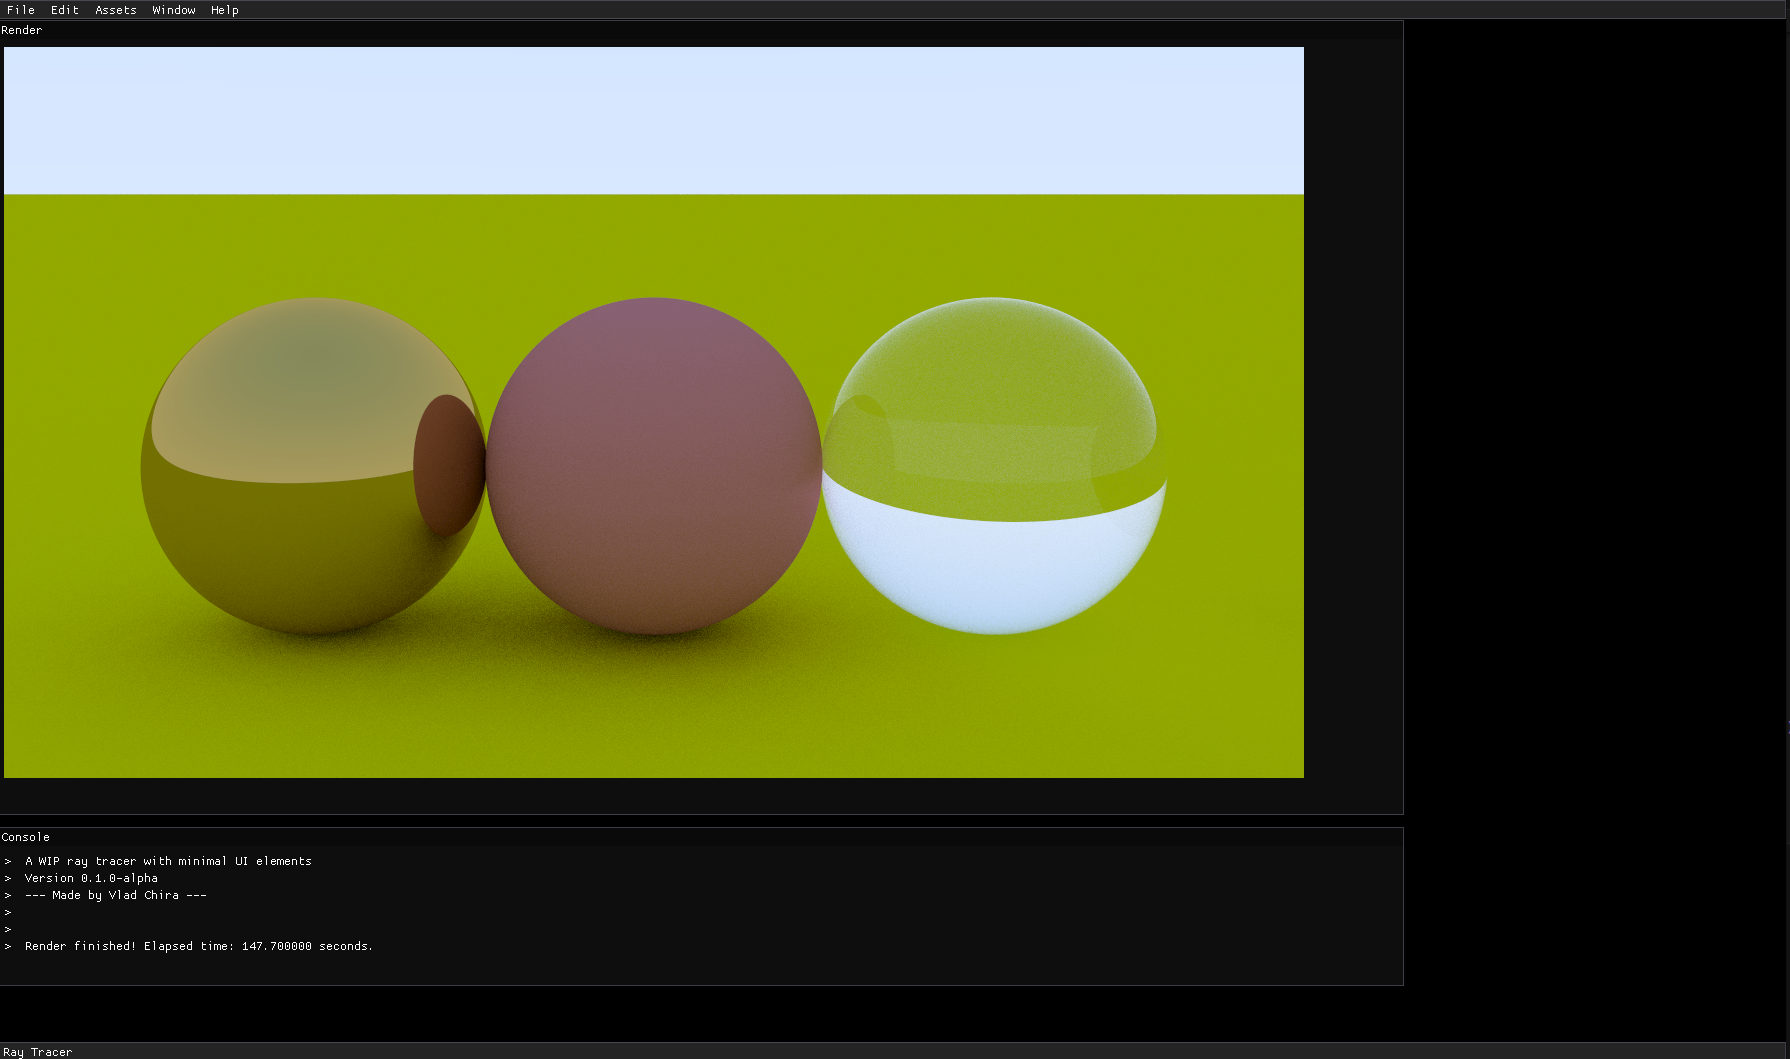
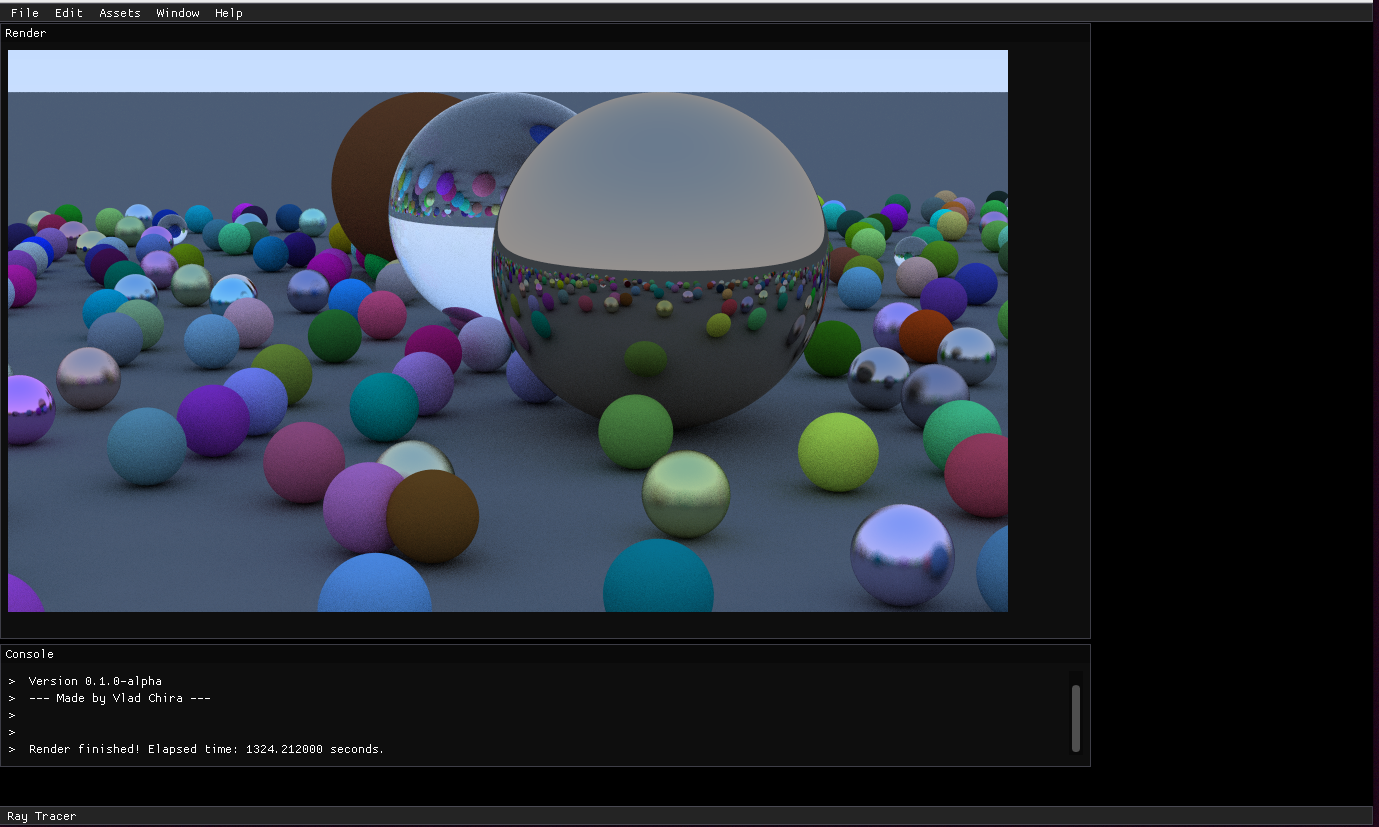
Added multithreading. Created demo scene.

diff --git a/src/raytracer.cpp b/src/raytracer.cpp
@@ -15,54 +15,32 @@
 #include "path_tracer.h"
 #include "ray_caster.h"
 
-void render()
+// Image
+const auto aspect_ratio = 16.0 / 9.0;
+const int image_width = 1000;
+const int image_height = static_cast<int>(image_width / aspect_ratio);
+const int samples_per_pixel = 100;
+const int max_depth = 20;
+
+// World
+raytracer::HittableList world;
+
+// Camera
+raytracer::Pinhole *camera;
+
+// Sampler
+raytracer::Sampler *sampler;
+
+// Tracer
+raytracer::Tracer *tracer;
+
+unsigned int num_threads = 6;
+
+void render_region(raytracer::Point2 top_left, unsigned int width, unsigned int height)
 {
-    // Image
-    const auto aspect_ratio = 16.0 / 9.0;
-    const int image_width = 1300;
-    const int image_height = static_cast<int>(image_width / aspect_ratio);
-    const int samples_per_pixel = 100;
-    const int max_depth = 30;
-
-    // World
-    raytracer::HittableList world;
-
-    auto material_ground = std::make_shared<raytracer::Matte>(0.8, raytracer::Color3(0.8, 0.8, 0.0));
-    auto material_center = std::make_shared<raytracer::Matte>(0.8, raytracer::Color3(0.7, 0.3, 0.3));
-    // auto material_left   = std::make_shared<raytracer::Reflective>(0.8, raytracer::Color3(0.8, 0.8, 0.8), 0.3);
-    auto material_left   = std::make_shared<raytracer::Transparent>(1.5);
-    auto material_right  = std::make_shared<raytracer::Reflective>(0.8, raytracer::Color3(0.8, 0.6, 0.2), 0);
-
-    // world.add(std::make_shared<raytracer::Sphere>(raytracer::Point3( 0.0, -100.5, -1.0), 100, material_ground));
-    world.add(std::make_shared<raytracer::Plane>(raytracer::Point3(0.0, -0.5, 0.0), raytracer::Normal3(0, 1.0, 0), material_ground));
-    world.add(std::make_shared<raytracer::Sphere>(raytracer::Point3( 0.0,    0.0, -1.0),   0.5, material_center));
-    world.add(std::make_shared<raytracer::Sphere>(raytracer::Point3(-1.0,    0.0, -1.0),   0.5, material_left));
-    world.add(std::make_shared<raytracer::Sphere>(raytracer::Point3( 1.0,    0.0, -1.0),   0.5, material_right));
-
-    // Camera
-    auto *camera = new raytracer::Pinhole(raytracer::Vector3(0, 0.8, -5), raytracer::Vector3(0, 0, 0));
-    camera->set_fov(30);
-    camera->compute_pixel_size(image_width, image_height);
-    camera->compute_uvw();
-
-    // Anti Aliasing Sampler
-    raytracer::Sampler *sampler = new raytracer::PureRandom(10);
-    sampler->map_samples_to_sphere();
-
-    // Tracer
-    raytracer::Tracer *tracer = new raytracer::PathTracer();
-
-    // Timer
-    HiResTimer timer;
-    timer.start();
-
-    // Start viewport preview
-    RenderView::GetInstance()->set_size(image_width, image_height);
-    RenderView::GetInstance()->display_render = true;
-
-    for (int i = 0; i < image_height; ++i)
+    for (int i = top_left.y; i < top_left.y + height; ++i)
     {
-        for (int j = 0; j < image_width; ++j)
+        for (int j = top_left.x; j < top_left.x + width; ++j)
         {
             raytracer::Color3 pixel_color(0, 0, 0);
             for (int s = 0; s < samples_per_pixel; s++)
@@ -79,15 +57,106 @@ void render()
             RenderView::GetInstance()->set_pixel_color(image_height - i - 1, j, pixel_color);
         }
     }
+}
+
+void setup()
+{
+    auto material_ground = std::make_shared<raytracer::Matte>(0.8, raytracer::Color3(0.5, 0.5, 0.5));
+    world.add(std::make_shared<raytracer::Plane>(raytracer::Point3(0.0, 0.0, 0.0), raytracer::Normal3(0, 1.0, 0), material_ground));
+
+    for (int a = -11; a < 11; a++)
+    {
+        for (int b = -11; b < 11; b++)
+        {
+            auto choose_mat = random_double();
+            raytracer::Point3 center(a + 0.9 * random_double(), 0.2, b + 0.9 * random_double());
+
+            if ((center - raytracer::Point3(4, 0.2, 0)).Length() > 0.9)
+            {
+                std::shared_ptr<raytracer::Material> sphere_material;
+                if (choose_mat < 0.8)
+                {
+                    // diffuse
+                    auto cd = raytracer::Color3(random_double(), random_double(), random_double());
+                    // auto kd = random_double();
+                    sphere_material = std::make_shared<raytracer::Matte>(1, cd);
+                    world.add(std::make_shared<raytracer::Sphere>(center, 0.2, sphere_material));
+                }
+                else if (choose_mat < 0.95)
+                {
+                    // metal
+                    auto cr = raytracer::Color3(random_double(0.5, 1), random_double(0.5, 1), random_double(0.5, 1));
+                    auto fuzz = random_double(0, 0.5);
+                    sphere_material = std::make_shared<raytracer::Reflective>(1, cr, fuzz);
+                    world.add(std::make_shared<raytracer::Sphere>(center, 0.2, sphere_material));
+                }
+                else
+                {
+                    // glass
+                    sphere_material = std::make_shared<raytracer::Transparent>(1.5);
+                    world.add(std::make_shared<raytracer::Sphere>(center, 0.2, sphere_material));
+                }
+            }
+        }
+    }
+
+    auto material1 = std::make_shared<raytracer::Transparent>(1.5);
+    world.add(std::make_shared<raytracer::Sphere>(raytracer::Point3(0, 1, 0), 1.0, material1));
+
+    auto material2 = std::make_shared<raytracer::Matte>(1.0, raytracer::Color3(0.4, 0.2, 0.1));
+    world.add(std::make_shared<raytracer::Sphere>(raytracer::Point3(-4, 1, 0), 1.0, material2));
+
+    auto material3 = std::make_shared<raytracer::Reflective>(1, raytracer::Color3(0.7, 0.6, 0.5), 0.0);
+    world.add(std::make_shared<raytracer::Sphere>(raytracer::Point3(4, 1, 0), 1.0, material3));
+
+    // Camera
+    camera = new raytracer::Pinhole(raytracer::Vector3(13, 2, 3), raytracer::Vector3(0, 0, 0));
+    camera->set_fov(20);
+    camera->compute_pixel_size(image_width, image_height);
+    camera->compute_uvw();
+
+    // Anti Aliasing Sampler
+    sampler = new raytracer::PureRandom(10);
+    sampler->map_samples_to_sphere();
+
+    // Tracer
+    tracer = new raytracer::PathTracer();
+
+    // Start viewport preview
+    RenderView::GetInstance()->set_size(image_width, image_height);
+    RenderView::GetInstance()->display_render = true;
+}
+
+void multi_threaded_render()
+{
+    setup();
+
+    HiResTimer timer;
+    timer.start();
+
+    std::vector<std::thread> threads;
+    unsigned int region_width = image_width / num_threads;
+    for (int i = 0; i < num_threads; ++i)
+    {
+        raytracer::Point2 top_left(i * region_width, 0);
+        unsigned int width = (i == num_threads - 1) ? (image_width - top_left.x) : region_width;
+        threads.emplace_back(render_region, top_left, width, image_height);
+    }
+
+    for (auto &thread : threads)
+    {
+        thread.join();
+    }
+
+    RenderView::GetInstance()->image->apply_gamma_correction(1.2);
+
     timer.stop();
     std::cout << "Elapsed time: " << timer.elapsed_time_seconds() << " seconds \n";
     Console::GetInstance()->appendLine("")->appendLine("Render finished! Elapsed time: " + std::to_string(timer.elapsed_time_seconds()) + " seconds.");
 
-    RenderView::GetInstance()->image->apply_gamma_correction(1.8);
-
-    // FILE *output_file = fopen("../output.png", "wb");
-    // save_image_png(*(RenderView::GetInstance()->image), output_file);
-    // fclose(output_file);
+    FILE *output_file = fopen("../output.png", "wb");
+    save_image_png(*(RenderView::GetInstance()->image), output_file);
+    fclose(output_file);
 }
 
 int main()
@@ -97,7 +166,7 @@ int main()
     GUI gui;
     gui.init();
 
-    std::thread render_thread(render);
+    std::thread render_thread(multi_threaded_render);
 
     gui.run();
 

diff --git a/src/core/cameras/pinhole.cpp b/src/core/cameras/pinhole.cpp
@@ -1,20 +1,12 @@
 #include "pinhole.h"
-
+#include "vector3.h"
 using namespace raytracer;
 
-Pinhole::Pinhole(Point3 eye_p, Point3 lookat) : Camera(eye_p, lookat),
-                                                d(1)
+Pinhole::Pinhole(raytracer::Point3 eye_p, raytracer::Point3 lookat)
 {
-}
-
-void Pinhole::set_view_distance(const double dist)
-{
-    d = dist;
-}
-
-double Pinhole::get_view_distance() const
-{
-    return d;
+    this->eye = eye_p;
+    this->look_at = lookat;
+    this->d = (eye_p - lookat).Length();
 }
 
 double Pinhole::get_fov() const
@@ -34,14 +26,14 @@ double Pinhole::get_pixel_size() const
 
 raytracer::Ray Pinhole::get_ray(const Point2 &pixel_point) const
 {
-    Vector3 dir = Normalize(pixel_point.x * u + pixel_point.y * v - w);
+    Vector3 dir = Normalize(pixel_point.x * u + pixel_point.y * v - d*w);
     return raytracer::Ray(eye, dir);
 }
 
 void Pinhole::compute_pixel_size(double image_width, double image_height)
 {
     const double aspect_ratio = image_width / image_height;
-    const double h = 2 * tan(deg_to_rad(this->fov) / 2);
+    const double h = 2 * this->d * tan(deg_to_rad(this->fov) / 2);
     const double w = aspect_ratio * h;
     this->pixel_size = w / image_width;
 }

diff --git a/src/core/cameras/thinlens.cpp b/src/core/cameras/thinlens.cpp
@@ -61,11 +61,11 @@ Vector3 ThinLens::ray_direction(const Point2 &pixel_point, const Point2 &lens_po
     p.y = pixel_point.y * f / d;
     Vector3 dir = (p.x - lens_point.x) * u + (p.y - lens_point.y) * v - f * w;
     dir = Normalize(dir);
-
     return dir;
 }
 
-Ray ThinLens::get_ray(const Point2& pixel_point) const {
+Ray ThinLens::get_ray(const Point2 &pixel_point) const
+{
     Point2 dp = this->sampler_ptr->sample_unit_disk();
     Point2 lp = dp * this->lens_radius;
     Vector3 dir = ray_direction(pixel_point, lp);

diff --git a/src/core/cameras/pinhole.h b/src/core/cameras/pinhole.h
@@ -8,10 +8,7 @@ namespace raytracer
     class Pinhole : public Camera
     {
     public:
-        Pinhole(raytracer::Point3 eye_p = raytracer::Point3(0, 0, 1), raytracer::Point3 lookat = raytracer::Point3(0, 0, -1));
-
-        void set_view_distance(const double dist);
-        double get_view_distance() const;
+        Pinhole(raytracer::Point3 eye_p, raytracer::Point3 lookat);
 
         void set_fov(const double fov_deg);
         double get_fov() const;

diff --git a/src/math/maths.h b/src/math/maths.h
@@ -54,7 +54,7 @@ inline int random_uint()
 }
 
 inline double random_double(double min, double max) {
-    return min + (max-min)*random_double(0.0, 1.0);
+    return min + (max-min)*random_double();
 }
 
 inline double random_uint(int min, int max) {

diff --git a/src/core/tracers/path_tracer.cpp b/src/core/tracers/path_tracer.cpp
@@ -5,6 +5,7 @@ Color3 PathTracer::trace_ray(const raytracer::Ray &r, const raytracer::HittableL
 {
     if (depth <= 0)
         return raytracer::Color3(0, 0, 0);
+
     HitInfo rec;
     if (world.hit(r, 0.001, infinity, rec))
     {
